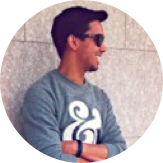
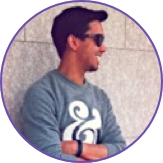
fix animation community styles

Changed region(s): [[0.0, 0.0, 1.0, 1.0]]

diff --git a/app/sass/_vars.sass b/app/sass/_vars.sass
@@ -40,7 +40,7 @@ $color_background: rgba(176, 162, 215, 48)
 		color: white
 
 @mixin circle
-	box-shadow: 0 0 0 8px #fff,	0 0 0 12px #b0a2d7,	0 0 0 22px #fff, 0 0 0 26px #b0a2d7, 0 0 0 42px #fff, 0 0 0 46px #b0a2d7, 0 0 0 64px #fff, 0 0 0 68px #b0a2d7, 0 0 0 90px #fff, 0 0 0 94px #b0a2d7
+	box-shadow: 0 0 0 10px #fff,	0 0 0 11px rgba(176,162,215,0.90),	0 0 0 24px #fff, 0 0 0 26px rgba(176,162,215,0.80), 0 0 0 42px #fff, 0 0 0 44px rgba(176,162,215,0.60), 0 0 0 63px #fff, 0 0 0 65px rgba(176,162,215,0.40), 0 0 0 79px #fff, 0 0 0 81px rgba(176,162,215,0.20)
 
 @mixin help
 	visibility: hidden
